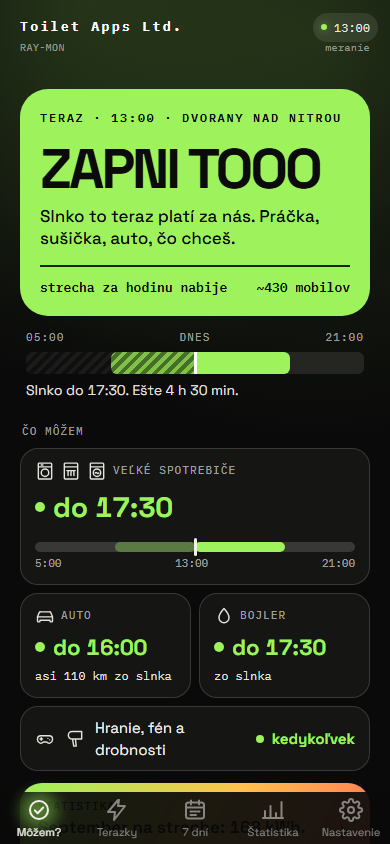
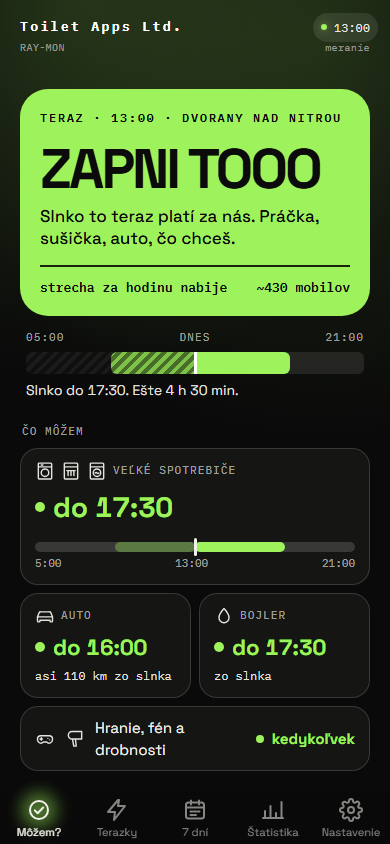
feat: karta Môžem bez odkazu do Štatistiky v oboch appkách (#349)
Karta Môžem? už štatistiku neukazuje, ani ako preklik do inej karty.

- **Súčasná appka:** preč je pole „Štatistika – Október na streche: …
kWh. Pozri čísla.“ na konci karty (`web/render/mozem.js`, poslucháč v
`web/mozem-interactions.js`, štýly `.summary-link`).
- **Obloha:** preč je odkaz `#mz-summary` pod dlaždicami (HTML,
`dom.js`, render a poslucháč v časti Štatistika, štýl `.tiles-box +
.lnk`).
- Jadro: zmizol text `statsLinkText`, ktorý už nič nepoužívalo.
- Testy, ktoré odkaz overovali, sú zmazané; `docs/ARCHITECTURE.md`
upravené.
- Snímka `docs/img/mozem.png` pregenerovaná.

Overené: `npm run check` (429 testov) a `npm run test:e2e` (360 testov).

🤖 Generated with [Claude Code](https://claude.com/claude-code)

Changed region(s): [[0.0615, 0.9242, 0.9231, 0.955]]

diff --git a/test/e2e/app.spec.js b/test/e2e/app.spec.js
@@ -40,7 +40,7 @@ import { useTier } from '../../web/render/sedemdni.js';
 import { doplnSucty, suctyZdroj } from '../../shared/sucty.js';
 import { mozemModel } from '../../shared/mozem.js';
 import { summaryModel } from '../../shared/summary.js';
-import { dayWindowCard, MOZEM_SKY_TEXTS, mozemListTitle, statsLinkText, terazTypicalText, weekMessage } from '../../shared/messages.js';
+import { dayWindowCard, MOZEM_SKY_TEXTS, mozemListTitle, terazTypicalText, weekMessage } from '../../shared/messages.js';
 import { settingsFromLink, shareUrl, startFromLink, toUser, typicalSettings } from '../../shared/settings.js';
 import { buildForecast, localDateKey, localMinutes, sunTimes } from '../../shared/solar.js';
 import { LINK_ERRORS } from '../../shared/setup-texts.js';
@@ -2990,22 +2990,6 @@ test.describe('karta Štatistika', () => {
         expect(errors).toEqual([]);
     });
 
-    test('odkaz na karte Môžem? otvorí plagát mesiaca v Štatistike; Späť vráti na Môžem?', async ({ page }) => {
-        const errors = await openApp(page, { start: 'terazky' });
-        await page.locator('#nav-mozem').click();
-        const mesiac = plagat(OWNER, 'mesiac');
-        await expect(page.locator('.summary-link')).toContainText(statsLinkText(mesiac.kick, /** @type {number} */ (mesiac.kwh)));
-        await page.locator('.summary-link').click();
-        await ocakavajKartu(page, 'statistika');
-        await expect(page.locator('[data-stats-period="mesiac"]')).toHaveAttribute('aria-pressed', 'true');
-        await ocakavajPlagat(page, mesiac);
-        await page.goBack();
-        await ocakavajKartu(page, 'mozem');
-        await page.goBack();
-        await ocakavajKartu(page, 'terazky');
-        expect(errors).toEqual([]);
-    });
-
     test('denník si zapíše dnešok', async ({ page }) => {
         const errors = await openApp(page);
         const log = await page.evaluate((key) => JSON.parse(localStorage.getItem(key) || '{}'), DAYLOG_STORAGE_KEY);
@@ -3115,7 +3099,6 @@ test.describe('karta Môžem?', () => {
         await page.locator('#nav-mozem').click();
         await expect(page.locator('.mozem-word')).toHaveText('Neviem.');
         await expect(page.locator('.mozem-strip')).toHaveCount(0);
-        await expect(page.locator('.summary-link'), 'bez merania odkaz do Štatistiky nie je').toHaveCount(0);
         await expect(page.locator('.mozem-tile b')).toHaveText(['neviem', 'neviem', 'neviem', 'kedykoľvek']);
         await expect(page.locator('.mozem-tile-bar'), 'bez okna slnka pás nie je').toHaveCount(0);
         expect(errors).toEqual([]);

diff --git a/test/e2e/obloha-statistika.spec.js b/test/e2e/obloha-statistika.spec.js
@@ -6,7 +6,7 @@ import AxeBuilder from '@axe-core/playwright';
 import { DAYLOG_STORAGE_KEY, PLANT, SETTINGS_STORAGE_KEY, SITE, SITE_STORAGE_KEY, TARIFF, WORKER_PV_URL } from '../../shared/config.js';
 import { recordDay } from '../../shared/daylog.js';
 import { kwpText } from '../../shared/format.js';
-import { statsLinkText, STATISTIKA_TEXTS } from '../../shared/messages.js';
+import { STATISTIKA_TEXTS } from '../../shared/messages.js';
 import { toUser } from '../../shared/settings.js';
 import { buildForecast, localMinutes } from '../../shared/solar.js';
 import { STATS_PERIODS } from '../../shared/stats.js';
@@ -272,27 +272,5 @@ test.describe('súčty, ktoré výrobca neposiela', () => {
         await page.locator('#st-poster [data-period="rok"]').click();
         await expect(page.locator('#st-poster h2')).toHaveText('Rok 2026 na streche');
         await expect(page.locator('#st-poster .pnote')).not.toContainText('neposiela súčet');
-    });
-});
-
-test.describe('odkaz na karte Môžem?', () => {
-    test('otvorí plagát mesiaca v karte Štatistika; Späť vráti na Môžem?', async ({ page }) => {
-        const errors = await openStat(page, { panel: 'mozem' });
-        const m = statistikaModel(vstup(), 'mesiac');
-        const s = /** @type {NonNullable<typeof m.summary>} */ (m.summary);
-        await expect(page.locator('#mz-summary-text')).toHaveText(statsLinkText(s.kick, /** @type {number} */ (s.kwh)));
-        await page.locator('#mz-summary').click();
-        await expect(page.locator('#panel-statistika')).toBeVisible();
-        await expect(page.locator('#st-poster [data-period="mesiac"]')).toHaveAttribute('aria-pressed', 'true');
-        await expect.poll(() => plagatVStranke(page)).toEqual(plagatZModelu(m));
-        await page.goBack();
-        await expect(page.locator('#panel-mozem')).toBeVisible();
-        expect(errors).toEqual([]);
-    });
-
-    test('bez merania odkaz nie je', async ({ page }) => {
-        await openStat(page, { settings: { ...OWNER, zdroj: null }, panel: 'mozem' });
-        await expect(page.locator('#mz-word')).not.toHaveText('');
-        await expect(page.locator('#mz-summary')).toBeHidden();
     });
 });

diff --git a/obloha/web/render/statistika.js b/obloha/web/render/statistika.js
@@ -1,15 +1,12 @@
 // Karta Štatistika novej appky: plagát obdobia - prepínač, veľké číslo kWh, obrázok dní, očíslované
-// riadky a poznámka - a pod ním výzvy. Odkaz na plagát mesiaca na karte Môžem? kreslí tiež. Všetko
-// počíta shared/statistika.js (plagát shared/summary.js, ten istý ako v súčasnej appke) a texty sú
+// riadky a poznámka - a pod ním výzvy. Všetko počíta shared/statistika.js (plagát shared/summary.js, ten istý ako v súčasnej appke) a texty sú
 // v shared/messages.js - tu sa len zapisuje do DOM.
 
 import { escapeHtml, monthNameShort } from '../../../shared/format.js';
-import { statsLinkText, voiceTexts } from '../../../shared/messages.js';
+import { voiceTexts } from '../../../shared/messages.js';
 import { neplatiOf } from '../../../shared/pristup.js';
 import { STATS_PERIODS } from '../../../shared/stats.js';
 import { statistikaModel } from '../../../shared/statistika.js';
-import { summaryModel } from '../../../shared/summary.js';
-import { shows } from '../state.js';
 import { setHtml, setText, show } from './write.js';
 
 /** @typedef {import('../dom.js').Dom} Dom */
@@ -117,17 +114,8 @@ function renderCtas(m, dom, T, neplati) {
     setText(dom.stPricesBtn, T.pricesBtn);
 }
 
-/** Odkaz na karte Môžem?: mesiac na streche, vedie na plagát v Štatistike. Bez merania nie je. @param {import('../state.js').AppState} state @param {Dom} dom */
-function renderMozemLink(state, dom) {
-    const link = shows(state, 'mozem') ? summaryModel(state, 'mesiac', state.voice) : null;
-    const on = !!link && link.kind === 'live' && link.kwh !== null;
-    show(dom.mzSummary, on);
-    setText(dom.mzSummaryText, on ? statsLinkText(link.kick, /** @type {number} */ (link.kwh)) : '');
-}
-
 /** @param {import('../state.js').AppState} state @param {Dom} dom */
 export function renderStatistika(state, dom) {
-    renderMozemLink(state, dom);
     if (state.panel !== 'statistika') return;
     const T = voiceTexts(state.voice).STATISTIKA_TEXTS;
     const m = statistikaModel(state, state.statsPeriod, { online: state.online, voice: state.voice });

diff --git a/web/render/mozem.js b/web/render/mozem.js
@@ -4,12 +4,11 @@
 
 import { HOUR_RANGE } from '../../shared/chart-model.js';
 import { escapeHtml, hourLabel, minutesToTimeStr } from '../../shared/format.js';
-import { MOZEM_SKY_TEXTS, NO_LIVE_FACT, statsLinkText } from '../../shared/messages.js';
+import { MOZEM_SKY_TEXTS, NO_LIVE_FACT } from '../../shared/messages.js';
 import { mozemModel, mozemSheetOf } from '../../shared/mozem.js';
 import { neplatiOf } from '../../shared/pristup.js';
-import { summaryModel } from '../../shared/summary.js';
 import { localMinutes } from '../../shared/solar.js';
-import { ICON_NEXT, MOZEM_ICONS } from '../icons.js';
+import { MOZEM_ICONS } from '../icons.js';
 import { writeHtml } from '../memo.js';
 
 /** @typedef {ReturnType<typeof mozemModel>} MozemModel */
@@ -151,18 +150,6 @@ function itemSheet(it, dom) {
     put(dom.mozemSheetMore, it.more ? it.more.a : '');
 }
 
-/**
- * Odkaz na konci karty: mesiac na streche, ťuknutie otvorí ten istý plagát v karte Štatistika.
- * Bez merania nie je. @param {import('../../shared/summary.js').SummaryModel} m
- */
-function statsLinkHtml(m) {
-    if (m.kind !== 'live' || m.kwh === null) return '';
-    return (
-        `<button type="button" class="summary-link" data-mozem-stats><span><small>Štatistika</small>` +
-        `${escapeHtml(statsLinkText(m.kick, m.kwh))}. Pozri čísla.</span>${ICON_NEXT}</button>`
-    );
-}
-
 /** Model karty pre stav appky. @param {import('../state.js').AppState} state */
 function modelOf(state) {
     const model = mozemModel(state);
@@ -180,6 +167,6 @@ export function closeMozemSheet(dom) {
 export function renderMozem(state, dom) {
     const m = modelOf(state);
     const kick = `Teraz · ${minutesToTimeStr(localMinutes(state.now, state.site.timezone))} · ${state.site.name}`;
-    writeHtml(dom.mozemBody, mozemHtml(m, kick) + statsLinkHtml(summaryModel(state, 'mesiac')), 'mozemBody');
+    writeHtml(dom.mozemBody, mozemHtml(m, kick), 'mozemBody');
     renderSheet(mozemSheetOf(m, state.mozemItem), dom);
 }

diff --git a/style.css b/style.css
@@ -3975,13 +3975,6 @@ b {
     font-size: var(--fs-md);
     color: var(--ink-70);
 }
-/* Mono štítok nad textom odkazu do Štatistiky. */
-.summary-link small {
-    font-family: var(--font-mono);
-    font-size: 11px;
-    letter-spacing: 0.1em;
-    text-transform: uppercase;
-}
 /* Dlaždice skupín vecí (ako v novej appke, docs/navrhy/smer-b-obloha.html) vo farbách tejto:
    široká cez celý riadok s pásom dňa, polovičné vedľa seba, tenký pás dole. Celá dlaždica je
    tlačidlo, ktoré otvorí panel veci či skupiny zospodu. */
@@ -4234,15 +4227,6 @@ b {
 .summary b {
     color: var(--ink-on-color);
 }
-.summary-link svg {
-    width: 20px;
-    height: 20px;
-    fill: none;
-    stroke: currentColor;
-    stroke-width: 2.4;
-    stroke-linecap: round;
-    stroke-linejoin: round;
-}
 /* Prepínač obdobia je .seg zo sprievodcu, len na svetlom plagáte. */
 .summary .seg {
     background: rgba(0, 0, 0, 0.14);
@@ -4402,24 +4386,6 @@ b {
 .summary-note {
     margin: 0;
     font-size: var(--fs-sm);
-}
-/* Odkaz z karty Môžem? na plagát mesiaca v Štatistike - ten istý prechod farieb ako plagát. */
-.summary-link {
-    display: flex;
-    justify-content: space-between;
-    align-items: center;
-    gap: var(--sp-3);
-    padding: 16px 18px;
-    border-radius: 22px;
-    background: linear-gradient(120deg, var(--green), var(--amber) 55%, var(--red));
-    color: var(--ink-on-color);
-    font-size: var(--fs-lg);
-    font-weight: 700;
-    text-align: left;
-}
-.summary-link small {
-    display: block;
-    font-weight: 600;
 }
 
 /* ---- Širšie obrazovky ----------------------------------------------------- */

diff --git a/web/mozem-interactions.js b/web/mozem-interactions.js
@@ -1,8 +1,7 @@
-// Poslucháče karty Môžem?: panel veci či skupiny a odkaz do Štatistiky. Každý končí volaním setState (alebo krokom v histórii cez backTo), kreslí
-// web/render/mozem.js.
+// Poslucháče karty Môžem?: panel veci či skupiny. Každý končí volaním setState (alebo krokom
+// v histórii cez backTo), kreslí web/render/mozem.js.
 
 import { backTo } from './history.js';
-import { panelChange } from './state.js';
 
 /** @typedef {import('./state.js').Store} Store */
 /** @typedef {import('./dom.js').Dom} Dom */
@@ -16,10 +15,7 @@ export function initMozem(store, dom) {
     dom.mozemBody.addEventListener('click', (e) => {
         const target = /** @type {HTMLElement} */ (e.target);
         const tile = target.closest('[data-mozem-item]');
-        if (tile instanceof HTMLElement && tile.dataset.mozemItem) return store.setState({ mozemItem: tile.dataset.mozemItem });
-        // Odkaz na mesiac na streche: karta Štatistika na mesiaci, jeden krok navigácie.
-        if (target.closest('[data-mozem-stats]'))
-            store.setState({ ...panelChange(store.get().panel, 'statistika'), statsPeriod: 'mesiac' });
+        if (tile instanceof HTMLElement && tile.dataset.mozemItem) store.setState({ mozemItem: tile.dataset.mozemItem });
     });
     const close = () => backTo(store, { mozemItem: null });
     dom.mozemSheetX.addEventListener('click', close);

diff --git a/obloha/web/statistika-interactions.js b/obloha/web/statistika-interactions.js
@@ -1,9 +1,7 @@
-// Poslucháče karty Štatistika novej appky: prepínač obdobia na plagáte, odkaz na plagát mesiaca
-// z karty Môžem? a „Skúsiť znova“. Každý končí volaním setState; kreslí render/statistika.js.
+// Poslucháče karty Štatistika novej appky: prepínač obdobia na plagáte a „Skúsiť znova“. Každý končí volaním setState; kreslí render/statistika.js.
 // Výzvy do Nastavenia obsluhuje interactions.js.
 
 import { STATS_PERIODS } from '../../shared/stats.js';
-import { panelChange } from './state.js';
 
 /** @typedef {import('./state.js').Store} Store */
 /** @typedef {import('./dom.js').Dom} Dom */
@@ -17,10 +15,6 @@ export function initStatistika(store, dom, refresh) {
         const period = btn instanceof HTMLElement && STATS_PERIODS.find((p) => p === btn.dataset.period);
         if (period) store.setState({ statsPeriod: period });
     });
-    // Odkaz na karte Môžem?: karta Štatistika na mesiaci, jeden krok navigácie.
-    dom.mzSummary.addEventListener('click', () =>
-        store.setState({ ...panelChange(store.get().panel, 'statistika'), statsPeriod: 'mesiac' }),
-    );
     dom.stRetry.addEventListener('click', () => {
         store.setState({ loading: true });
         // Ťukol človek: meranie sa opýta hneď, aj keď by inak čakalo na interval (shared/zdroje.js).

diff --git a/test/statistika.test.js b/test/statistika.test.js
@@ -2,7 +2,7 @@ import { test } from 'node:test';
 import assert from 'node:assert/strict';
 import { installedKw, PLANT, SITE, TARIFF } from '../shared/config.js';
 import { kwpText } from '../shared/format.js';
-import { statsLinkText, STATISTIKA_TEXTS, statistikaTexts, summaryMeter } from '../shared/messages.js';
+import { STATISTIKA_TEXTS, statistikaTexts, summaryMeter } from '../shared/messages.js';
 import { STATS_PERIODS } from '../shared/stats.js';
 import { statistikaModel } from '../shared/statistika.js';
 import { summaryModel } from '../shared/summary.js';
@@ -28,8 +28,7 @@ const BASE = {
 /** Bez kiosku: meranie nie je, dnešok z predpovede. */
 const NO_KIOSK = { ...BASE, zdroj: null, pv: null };
 
-test('texty: odkaz z Môžem? a pás pod veľkým číslom', () => {
-    assert.equal(statsLinkText('September na streche', 168.2), 'September na streche: 168 kWh');
+test('texty: pás pod veľkým číslom', () => {
     assert.deepEqual(summaryMeter({ pct: 52, forecastKwh: 61.44 }), { pct: 52, left: 'z predpovede 61,4 kWh', right: '52 %' });
     assert.equal(summaryMeter({ pct: 130, forecastKwh: 20 }).pct, 100, 'pás nepretečie, veta povie celé číslo');
     assert.equal(summaryMeter({ pct: 130, forecastKwh: 20 }).right, '130 %');

diff --git a/test/e2e/obloha-siroka.spec.js b/test/e2e/obloha-siroka.spec.js
@@ -334,17 +334,6 @@ test.describe('dialógy na počítači', () => {
         expect(errors).toEqual([]);
     });
 
-    test('odkaz v stĺpci Môžem? otvorí Štatistiku na mesiaci; Späť vráti do prehľadu', async ({ page }) => {
-        const errors = await openObloha(page, POCITAC);
-        await page.locator('#nav-mozem').click();
-        await page.locator('#mz-summary').click();
-        await expect(page.locator('#panel-statistika')).toBeVisible();
-        await expect(page.locator('#st-poster [data-period="mesiac"]')).toHaveAttribute('aria-pressed', 'true');
-        await page.goBack();
-        await expect.poll(async () => (await rozlozenie(page)).panels.map((p) => p.id)).toEqual(['mozem', 'terazky', '7dni']);
-        expect(errors).toEqual([]);
-    });
-
     test('detail dňa a týždňa sa otvoria v stĺpci 7 dní; Escape, Späť aj „‹ 7 dní“ vrátia prehľad a fokus', async ({ page }) => {
         const errors = await openObloha(page, POCITAC);
         const stlpec = /** @type {{ x: number, width: number }} */ (await page.locator('#panel-7dni').boundingBox());

diff --git a/obloha/index.html b/obloha/index.html
@@ -89,11 +89,6 @@
                     <h2 id="mz-list-title" class="glass-ttl"></h2>
                     <div id="mz-items" class="tiles"></div>
                 </section>
-                <!-- Nenápadný odkaz na plagát mesiaca v karte Štatistika. Ukáže ho až kód Štatistiky, ktorý
-                     sa načíta po prvom vykreslení (web/parts.js). -->
-                <button type="button" id="mz-summary" class="lnk hidden">
-                    <span id="mz-summary-text"></span><span aria-hidden="true"> ›</span>
-                </button>
             </section>
             <!-- Karta Teraz: texty, graf aj pás odporúčaní skladá render (web/render/teraz.js)
                  z shared/teraz.js, tu sú len nosiče. Graf je zároveň posúvač času: prst, kurzor

diff --git a/shared/messages-statistika.js b/shared/messages-statistika.js
@@ -171,9 +171,6 @@ function summaryKick(d) {
     return `${d.month.charAt(0).toUpperCase()}${d.month.slice(1)} na streche`;
 }
 
-/** Odkaz na plagát mesiaca na karte Môžem?: „Október na streche: 168 kWh“. @param {string} kick @param {number} kwh */
-export const statsLinkText = (kick, kwh) => `${kick}: ${fmtSum(Math.round(kwh), 0)} kWh`;
-
 /** Peniaze na plagáte: do 10 s centami („1,60 €“), inak celé („50 €“). @param {number} v @param {string} currency */
 const money = (v, currency) => `${fmtSum(v, v < 10 ? 2 : 0)} ${currency}`;
 

diff --git a/obloha/web/dom.js b/obloha/web/dom.js
@@ -37,8 +37,6 @@ function mozemDom() {
         mzList: byId('mz-list'),
         mzListTitle: byId('mz-list-title'),
         mzItems: byId('mz-items'),
-        mzSummary: byId('mz-summary'),
-        mzSummaryText: byId('mz-summary-text'),
         mzSheet: /** @type {HTMLDialogElement} */ (byId('mz-sheet')),
         mzSheetX: byId('mz-sheet-x'),
         mzSheetTitle: byId('mz-sheet-title'),
